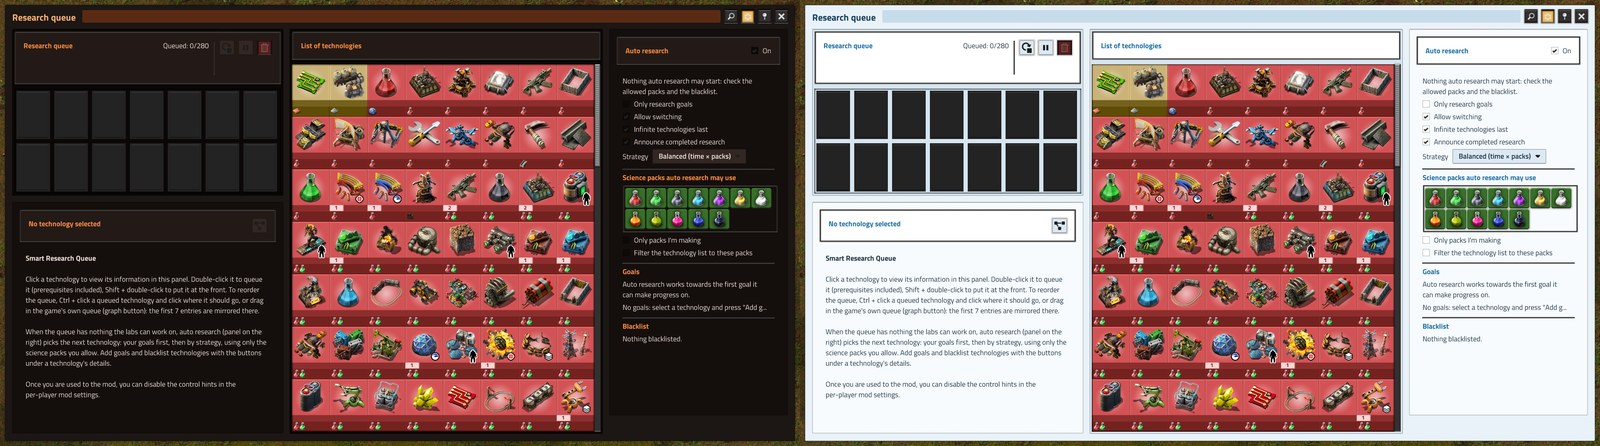
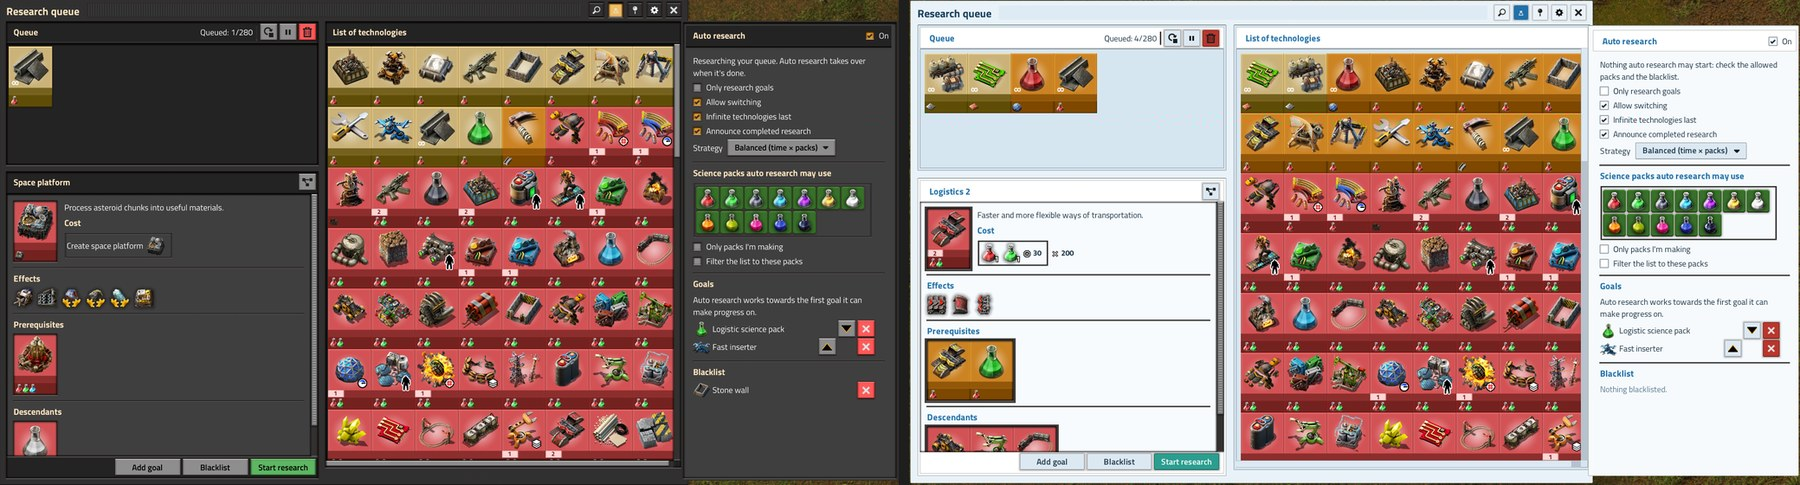
Smart Research Queue 1.5.0: window scale; at large scales fewer columns instead of a tiny window

diff --git a/README.md b/README.md
@@ -21,9 +21,13 @@ Works with big modpacks: technology data is cached once per load.
 
 The research queue window follows the theme each player picks in [FSE std](https://github.com/watdafawx/fse#themes)'s theme window (its button on the shortcut bar), when FSE std 0.6+ is installed: 12 themes, colours edited live with the FSE loader. Without FSE std it looks as before.
 
-With FSE std 0.7.0+ the window is laid out as our other mods' windows: the gear by the close button holds its settings (Docked, show disabled technologies, show control hints, Theme..., Reset size and place), and Auto Research (the science flask in the title bar, lit while its panel shows) hangs as a drawer on its right edge (untick Docked to have it as a column inside the window). Clearing the queue and un-researching ask first.
+With FSE std 0.7.0+ the window ("Research queue", its panels **Queue** and **List of technologies**) is laid out as our other mods' windows: the gear by the close button holds its settings (Docked, Size, show disabled technologies, show control hints, Theme..., Reset size and place), and Auto Research (the science flask in the title bar, lit while its panel shows) hangs as a drawer on its right edge (untick Docked to have it as a column inside the window). Clearing the queue and un-researching ask first; Esc closes the window.
 
-![The research queue window in Vulcanus and Aquilo](images/themes.jpg)
+![The research queue window in Vanilla and Aquilo](images/themes.jpg)
+
+With FSE std 0.8.0+ the window is drawn at FSE std's **Window size** (per-player setting, or the theme window), or at its own **Size** from the gear, on top of the game's GUI scale. On a small screen or at a large GUI scale it takes fewer rows and columns of technologies instead of being drawn smaller: at the game's GUI scale 200 % on 2560 x 1440 it shows whole, with the Auto Research drawer beside it. When even that leaves no room beside it, the drawer opens inside the window, over the technology list (the flask shows and hides it).
+
+![The game's GUI at 200 % on 2560 x 1440: the window with fewer columns, the drawer beside it](images/scale.jpg)
 
 ## Install
 
@@ -34,7 +38,9 @@ git clone https://github.com/watdafawx/smart-research-queue
 ```
 
 Needs [flib](https://mods.factorio.com/mod/flib). `test\run.py` runs the headless tests (set `FACTORIO_EXE` if the
-game isn't in a usual Steam library).
+game isn't in a usual Steam library). `test\run_gui.py [--themed]` opens a real game window and screenshots the window
+(`--themed`: with fse-std; close your own game first). At other scales: fse's `test\run_theme_matrix.py --windows srq
+--scale 2 [--window-scale 150]`.
 
 ## License
 
